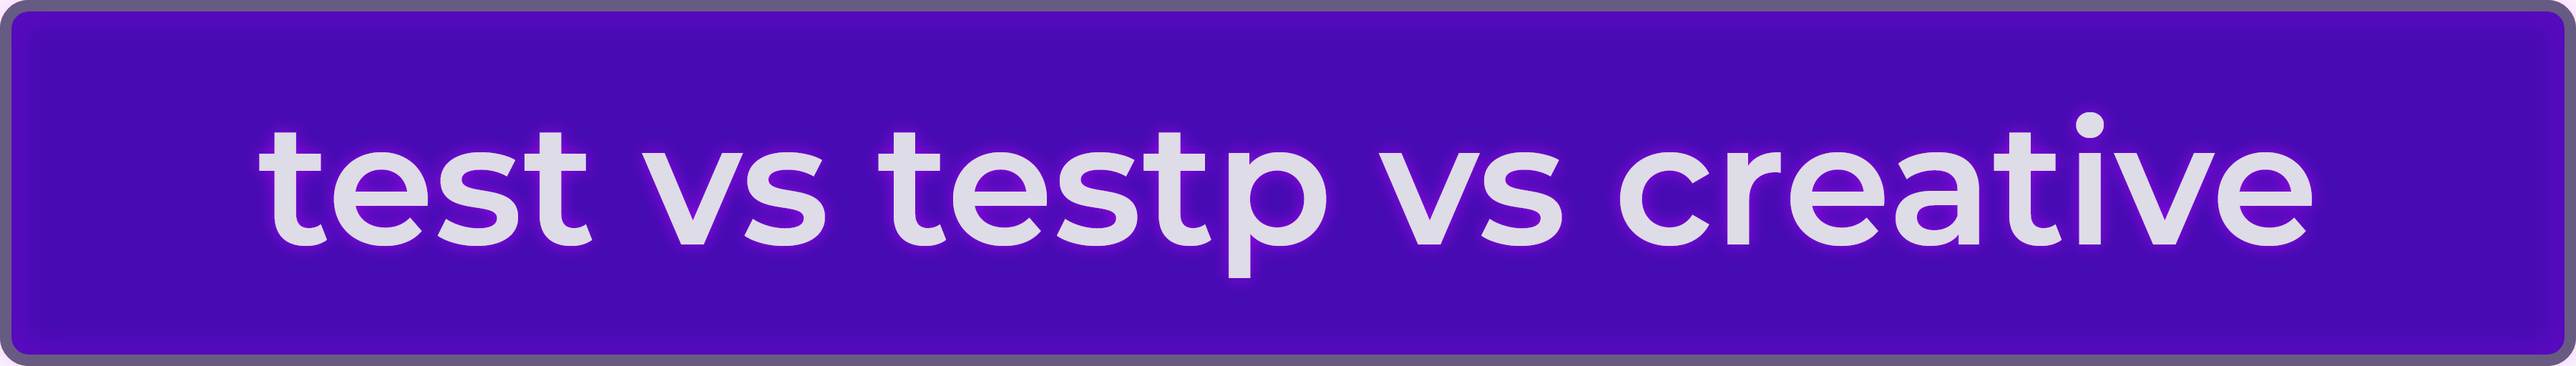
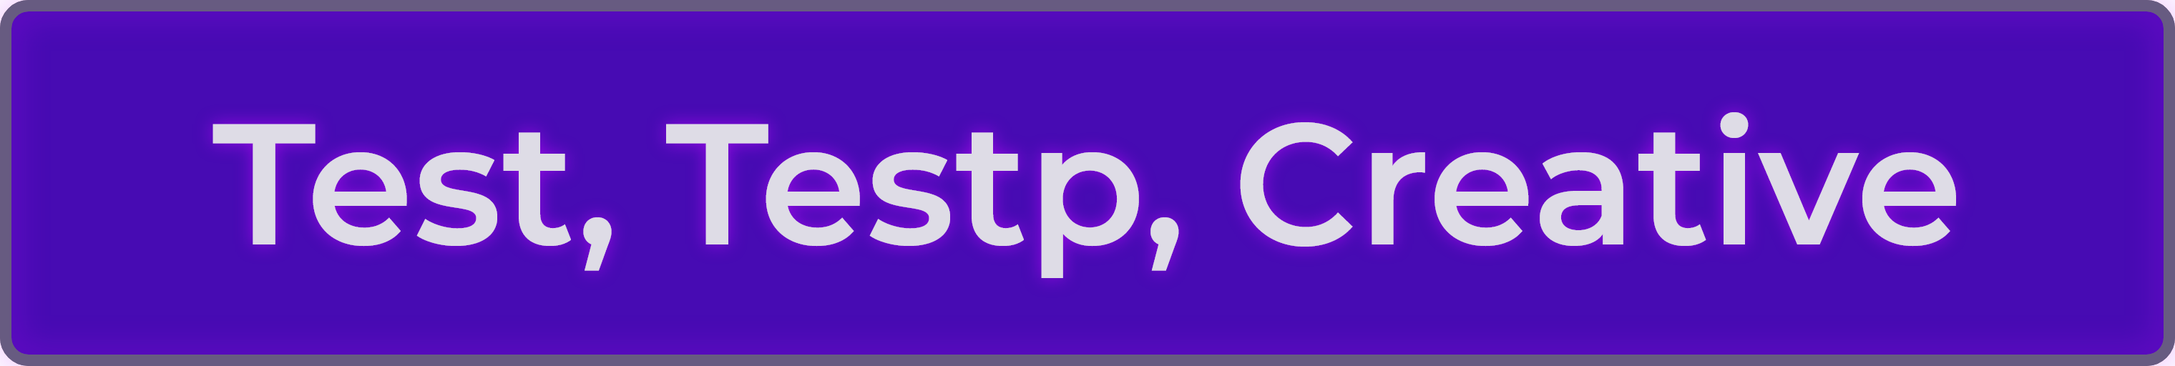
Added and changed name of some repo parts

Changed region(s): [[0.0938, 0.3125, 0.875, 0.75]]

diff --git a/Pages/Comparison_Pages/Version_Comparison/V1_V2_V3_V4.md b/Pages/Comparison_Pages/Version_Comparison/V1_V2_V3_V4.md
@@ -8,7 +8,7 @@
 [<img src="https://github.com/willwulfken/MidJourney-Styles-and-Keywords-Reference/blob/main/Images/Repo_Parts/Buttons/Version_Buttons/Midjourney_Beta_Features/button_version_MJV4_alpha_inactive.png?raw=true" alt="Midjourney V4 Alpha" height="64" />](https://github.com/willwulfken/MidJourney-Styles-and-Keywords-Reference/blob/main/Pages/Comparison_Pages/Version_Comparison/V4_Alpha/V4_Alpha.md)
 <br>
 [<img src="https://github.com/willwulfken/MidJourney-Styles-and-Keywords-Reference/blob/main/Images/Repo_Parts/Buttons/Comparison_Page_Buttons/Groups/button_v4_test_testp_inactive.png?raw=true" alt="V4 vs --test vs --testp" height="64" />](https://github.com/willwulfken/MidJourney-Styles-and-Keywords-Reference/blob/main/Pages/Comparison_Pages/Version_Comparison/V4_test_testp.md)
-[<img src="https://github.com/willwulfken/MidJourney-Styles-and-Keywords-Reference/blob/main/Images/Repo_Parts/Buttons/Comparison_Page_Buttons/Groups/button_test_testp_creative_inactive.png?raw=true" alt="--test vs --testp vs --creative" height="64" />](https://github.com/willwulfken/MidJourney-Styles-and-Keywords-Reference/blob/main/Pages/Comparison_Pages/Version_Comparison/test_testp_creative.md)
+[<img src="https://github.com/willwulfken/MidJourney-Styles-and-Keywords-Reference/blob/main/Images/Repo_Parts/Buttons/Comparison_Page_Buttons/Groups/button_test_vs_testp_vs_creative_inactive.png?raw=true" alt="--test vs --testp vs --creative" height="64" />](https://github.com/willwulfken/MidJourney-Styles-and-Keywords-Reference/blob/main/Pages/Comparison_Pages/Version_Comparison/test_testp_creative.md)
 [<img src="https://github.com/willwulfken/MidJourney-Styles-and-Keywords-Reference/blob/main/Images/Repo_Parts/Buttons/Comparison_Page_Buttons/Groups/button_hd_inactive.png?raw=true" alt="hd" height="64" />](https://github.com/willwulfken/MidJourney-Styles-and-Keywords-Reference/blob/main/Pages/Comparison_Pages/Version_Comparison/HD/hd.md)
 
 </div>

diff --git a/Pages/Comparison_Pages/Version_Comparison/HD/hd.md b/Pages/Comparison_Pages/Version_Comparison/HD/hd.md
@@ -8,7 +8,7 @@
 [<img src="https://github.com/willwulfken/MidJourney-Styles-and-Keywords-Reference/blob/main/Images/Repo_Parts/Buttons/Version_Buttons/Midjourney_Beta_Features/button_version_MJV4_alpha_inactive.png?raw=true" alt="Midjourney V4 Alpha" height="64" />](https://github.com/willwulfken/MidJourney-Styles-and-Keywords-Reference/blob/main/Pages/Comparison_Pages/Version_Comparison/V4_Alpha/V4_Alpha.md)
 <br>
 [<img src="https://github.com/willwulfken/MidJourney-Styles-and-Keywords-Reference/blob/main/Images/Repo_Parts/Buttons/Comparison_Page_Buttons/Groups/button_v4_test_testp_inactive.png?raw=true" alt="V4 vs --test vs --testp" height="64" />](https://github.com/willwulfken/MidJourney-Styles-and-Keywords-Reference/blob/main/Pages/Comparison_Pages/Version_Comparison/V4_test_testp.md)
-[<img src="https://github.com/willwulfken/MidJourney-Styles-and-Keywords-Reference/blob/main/Images/Repo_Parts/Buttons/Comparison_Page_Buttons/Groups/button_test_testp_creative_inactive.png?raw=true" alt="--test vs --testp vs --creative" height="64" />](https://github.com/willwulfken/MidJourney-Styles-and-Keywords-Reference/blob/main/Pages/Comparison_Pages/Version_Comparison/test_testp_creative.md)
+[<img src="https://github.com/willwulfken/MidJourney-Styles-and-Keywords-Reference/blob/main/Images/Repo_Parts/Buttons/Comparison_Page_Buttons/Groups/button_test_vs_testp_vs_creative_inactive.png?raw=true" alt="--test vs --testp vs --creative" height="64" />](https://github.com/willwulfken/MidJourney-Styles-and-Keywords-Reference/blob/main/Pages/Comparison_Pages/Version_Comparison/test_testp_creative.md)
 [<img src="https://github.com/willwulfken/MidJourney-Styles-and-Keywords-Reference/blob/main/Images/Repo_Parts/Buttons/Comparison_Page_Buttons/Groups/button_hd_active.png?raw=true" alt="hd" height="64" />]()
 
 </div>

diff --git a/Pages/Comparison_Pages/Version_Comparison/HD/V2_hd.md b/Pages/Comparison_Pages/Version_Comparison/HD/V2_hd.md
@@ -8,7 +8,7 @@
 [<img src="https://github.com/willwulfken/MidJourney-Styles-and-Keywords-Reference/blob/main/Images/Repo_Parts/Buttons/Version_Buttons/Midjourney_Beta_Features/button_version_MJV4_alpha_inactive.png?raw=true" alt="Midjourney V4 Alpha" height="64" />](https://github.com/willwulfken/MidJourney-Styles-and-Keywords-Reference/blob/main/Pages/Comparison_Pages/Version_Comparison/V4_Alpha/V4_Alpha.md)
 <br>
 [<img src="https://github.com/willwulfken/MidJourney-Styles-and-Keywords-Reference/blob/main/Images/Repo_Parts/Buttons/Comparison_Page_Buttons/Groups/button_v4_test_testp_inactive.png?raw=true" alt="V4 vs --test vs --testp" height="64" />](https://github.com/willwulfken/MidJourney-Styles-and-Keywords-Reference/blob/main/Pages/Comparison_Pages/Version_Comparison/V4_test_testp.md)
-[<img src="https://github.com/willwulfken/MidJourney-Styles-and-Keywords-Reference/blob/main/Images/Repo_Parts/Buttons/Comparison_Page_Buttons/Groups/button_test_testp_creative_inactive.png?raw=true" alt="--test vs --testp vs --creative" height="64" />](https://github.com/willwulfken/MidJourney-Styles-and-Keywords-Reference/blob/main/Pages/Comparison_Pages/Version_Comparison/test_testp_creative.md)
+[<img src="https://github.com/willwulfken/MidJourney-Styles-and-Keywords-Reference/blob/main/Images/Repo_Parts/Buttons/Comparison_Page_Buttons/Groups/button_test_vs_testp_vs_creative_inactive.png?raw=true" alt="--test vs --testp vs --creative" height="64" />](https://github.com/willwulfken/MidJourney-Styles-and-Keywords-Reference/blob/main/Pages/Comparison_Pages/Version_Comparison/test_testp_creative.md)
 [<img src="https://github.com/willwulfken/MidJourney-Styles-and-Keywords-Reference/blob/main/Images/Repo_Parts/Buttons/Comparison_Page_Buttons/Groups/button_hd_active.png?raw=true" alt="hd" height="64" />]()
 
 <br>

diff --git a/Pages/Comparison_Pages/Version_Comparison/HD/V3_hd.md b/Pages/Comparison_Pages/Version_Comparison/HD/V3_hd.md
@@ -8,7 +8,7 @@
 [<img src="https://github.com/willwulfken/MidJourney-Styles-and-Keywords-Reference/blob/main/Images/Repo_Parts/Buttons/Version_Buttons/Midjourney_Beta_Features/button_version_MJV4_alpha_inactive.png?raw=true" alt="Midjourney V4 Alpha" height="64" />](https://github.com/willwulfken/MidJourney-Styles-and-Keywords-Reference/blob/main/Pages/Comparison_Pages/Version_Comparison/V4_Alpha/V4_Alpha.md)
 <br>
 [<img src="https://github.com/willwulfken/MidJourney-Styles-and-Keywords-Reference/blob/main/Images/Repo_Parts/Buttons/Comparison_Page_Buttons/Groups/button_v4_test_testp_inactive.png?raw=true" alt="V4 vs --test vs --testp" height="64" />](https://github.com/willwulfken/MidJourney-Styles-and-Keywords-Reference/blob/main/Pages/Comparison_Pages/Version_Comparison/V4_test_testp.md)
-[<img src="https://github.com/willwulfken/MidJourney-Styles-and-Keywords-Reference/blob/main/Images/Repo_Parts/Buttons/Comparison_Page_Buttons/Groups/button_test_testp_creative_inactive.png?raw=true" alt="--test vs --testp vs --creative" height="64" />](https://github.com/willwulfken/MidJourney-Styles-and-Keywords-Reference/blob/main/Pages/Comparison_Pages/Version_Comparison/test_testp_creative.md)
+[<img src="https://github.com/willwulfken/MidJourney-Styles-and-Keywords-Reference/blob/main/Images/Repo_Parts/Buttons/Comparison_Page_Buttons/Groups/button_test_vs_testp_vs_creative_inactive.png?raw=true" alt="--test vs --testp vs --creative" height="64" />](https://github.com/willwulfken/MidJourney-Styles-and-Keywords-Reference/blob/main/Pages/Comparison_Pages/Version_Comparison/test_testp_creative.md)
 [<img src="https://github.com/willwulfken/MidJourney-Styles-and-Keywords-Reference/blob/main/Images/Repo_Parts/Buttons/Comparison_Page_Buttons/Groups/button_hd_active.png?raw=true" alt="hd" height="64" />]()
 
 <br>

diff --git a/Pages/Comparison_Pages/Version_Comparison/V4_test_testp.md b/Pages/Comparison_Pages/Version_Comparison/V4_test_testp.md
@@ -8,7 +8,7 @@
 [<img src="https://github.com/willwulfken/MidJourney-Styles-and-Keywords-Reference/blob/main/Images/Repo_Parts/Buttons/Version_Buttons/Midjourney_Beta_Features/button_version_MJV4_alpha_inactive.png?raw=true" alt="Midjourney V4 Alpha" height="64" />](https://github.com/willwulfken/MidJourney-Styles-and-Keywords-Reference/blob/main/Pages/Comparison_Pages/Version_Comparison/V4_Alpha/V4_Alpha.md)
 <br>
 [<img src="https://github.com/willwulfken/MidJourney-Styles-and-Keywords-Reference/blob/main/Images/Repo_Parts/Buttons/Comparison_Page_Buttons/Groups/button_v4_test_testp_active.png?raw=true" alt="V4 vs --test vs --testp" height="64" />]()
-[<img src="https://github.com/willwulfken/MidJourney-Styles-and-Keywords-Reference/blob/main/Images/Repo_Parts/Buttons/Comparison_Page_Buttons/Groups/button_test_testp_creative_inactive.png?raw=true" alt="--test vs --testp vs --creative" height="64" />](https://github.com/willwulfken/MidJourney-Styles-and-Keywords-Reference/blob/main/Pages/Comparison_Pages/Version_Comparison/test_testp_creative.md)
+[<img src="https://github.com/willwulfken/MidJourney-Styles-and-Keywords-Reference/blob/main/Images/Repo_Parts/Buttons/Comparison_Page_Buttons/Groups/button_test_vs_testp_vs_creative_inactive.png?raw=true" alt="--test vs --testp vs --creative" height="64" />](https://github.com/willwulfken/MidJourney-Styles-and-Keywords-Reference/blob/main/Pages/Comparison_Pages/Version_Comparison/test_testp_creative.md)
 [<img src="https://github.com/willwulfken/MidJourney-Styles-and-Keywords-Reference/blob/main/Images/Repo_Parts/Buttons/Comparison_Page_Buttons/Groups/button_hd_inactive.png?raw=true" alt="hd" height="64" />](https://github.com/willwulfken/MidJourney-Styles-and-Keywords-Reference/blob/main/Pages/Comparison_Pages/Version_Comparison/HD/hd.md)
 
 </div>

diff --git a/Pages/Comparison_Pages/Version_Comparison/Old_Pages/V4_Alpha_All.md b/Pages/Comparison_Pages/Version_Comparison/Old_Pages/V4_Alpha_All.md
@@ -8,7 +8,7 @@
 [<img src="https://github.com/willwulfken/MidJourney-Styles-and-Keywords-Reference/blob/main/Images/Repo_Parts/Buttons/Version_Buttons/Midjourney_Beta_Features/button_version_MJV4_alpha_active.png?raw=true" alt="Midjourney V4 Alpha" height="64" />]()
 <br>
 [<img src="https://github.com/willwulfken/MidJourney-Styles-and-Keywords-Reference/blob/main/Images/Repo_Parts/Buttons/Comparison_Page_Buttons/Groups/button_v4_test_testp_inactive.png?raw=true" alt="V4 vs --test vs --testp" height="64" />](https://github.com/willwulfken/MidJourney-Styles-and-Keywords-Reference/blob/main/Pages/Comparison_Pages/Version_Comparison/V4_test_testp.md)
-[<img src="https://github.com/willwulfken/MidJourney-Styles-and-Keywords-Reference/blob/main/Images/Repo_Parts/Buttons/Comparison_Page_Buttons/Groups/button_test_testp_creative_inactive.png?raw=true" alt="--test vs --testp vs --creative" height="64" />](https://github.com/willwulfken/MidJourney-Styles-and-Keywords-Reference/blob/main/Pages/Comparison_Pages/Version_Comparison/test_testp_creative.md)
+[<img src="https://github.com/willwulfken/MidJourney-Styles-and-Keywords-Reference/blob/main/Images/Repo_Parts/Buttons/Comparison_Page_Buttons/Groups/button_test_vs_testp_vs_creative_inactive.png?raw=true" alt="--test vs --testp vs --creative" height="64" />](https://github.com/willwulfken/MidJourney-Styles-and-Keywords-Reference/blob/main/Pages/Comparison_Pages/Version_Comparison/test_testp_creative.md)
 [<img src="https://github.com/willwulfken/MidJourney-Styles-and-Keywords-Reference/blob/main/Images/Repo_Parts/Buttons/Comparison_Page_Buttons/Groups/button_hd_inactive.png?raw=true" alt="hd" height="64" />](https://github.com/willwulfken/MidJourney-Styles-and-Keywords-Reference/blob/main/Pages/Comparison_Pages/Version_Comparison/HD/hd.md)
 
 <br>

diff --git a/Pages/Comparison_Pages/Version_Comparison/V4_Alpha/V4_Alpha.md b/Pages/Comparison_Pages/Version_Comparison/V4_Alpha/V4_Alpha.md
@@ -8,7 +8,7 @@
 [<img src="https://github.com/willwulfken/MidJourney-Styles-and-Keywords-Reference/blob/main/Images/Repo_Parts/Buttons/Version_Buttons/Midjourney_Beta_Features/button_version_MJV4_alpha_active.png?raw=true" alt="Midjourney V4 Alpha" height="64" />]()
 <br>
 [<img src="https://github.com/willwulfken/MidJourney-Styles-and-Keywords-Reference/blob/main/Images/Repo_Parts/Buttons/Comparison_Page_Buttons/Groups/button_v4_test_testp_inactive.png?raw=true" alt="V4 vs --test vs --testp" height="64" />](https://github.com/willwulfken/MidJourney-Styles-and-Keywords-Reference/blob/main/Pages/Comparison_Pages/Version_Comparison/V4_test_testp.md)
-[<img src="https://github.com/willwulfken/MidJourney-Styles-and-Keywords-Reference/blob/main/Images/Repo_Parts/Buttons/Comparison_Page_Buttons/Groups/button_test_testp_creative_inactive.png?raw=true" alt="--test vs --testp vs --creative" height="64" />](https://github.com/willwulfken/MidJourney-Styles-and-Keywords-Reference/blob/main/Pages/Comparison_Pages/Version_Comparison/test_testp_creative.md)
+[<img src="https://github.com/willwulfken/MidJourney-Styles-and-Keywords-Reference/blob/main/Images/Repo_Parts/Buttons/Comparison_Page_Buttons/Groups/button_test_vs_testp_vs_creative_inactive.png?raw=true" alt="--test vs --testp vs --creative" height="64" />](https://github.com/willwulfken/MidJourney-Styles-and-Keywords-Reference/blob/main/Pages/Comparison_Pages/Version_Comparison/test_testp_creative.md)
 [<img src="https://github.com/willwulfken/MidJourney-Styles-and-Keywords-Reference/blob/main/Images/Repo_Parts/Buttons/Comparison_Page_Buttons/Groups/button_hd_inactive.png?raw=true" alt="hd" height="64" />](https://github.com/willwulfken/MidJourney-Styles-and-Keywords-Reference/blob/main/Pages/Comparison_Pages/Version_Comparison/HD/hd.md)
 
 <br>

diff --git a/Pages/Comparison_Pages/Version_Comparison/V4_Alpha/V4_Style.md b/Pages/Comparison_Pages/Version_Comparison/V4_Alpha/V4_Style.md
@@ -8,7 +8,7 @@
 [<img src="https://github.com/willwulfken/MidJourney-Styles-and-Keywords-Reference/blob/main/Images/Repo_Parts/Buttons/Version_Buttons/Midjourney_Beta_Features/button_version_MJV4_alpha_active.png?raw=true" alt="Midjourney V4 Alpha" height="64" />]()
 <br>
 [<img src="https://github.com/willwulfken/MidJourney-Styles-and-Keywords-Reference/blob/main/Images/Repo_Parts/Buttons/Comparison_Page_Buttons/Groups/button_v4_test_testp_inactive.png?raw=true" alt="V4 vs --test vs --testp" height="64" />](https://github.com/willwulfken/MidJourney-Styles-and-Keywords-Reference/blob/main/Pages/Comparison_Pages/Version_Comparison/V4_test_testp.md)
-[<img src="https://github.com/willwulfken/MidJourney-Styles-and-Keywords-Reference/blob/main/Images/Repo_Parts/Buttons/Comparison_Page_Buttons/Groups/button_test_testp_creative_inactive.png?raw=true" alt="--test vs --testp vs --creative" height="64" />](https://github.com/willwulfken/MidJourney-Styles-and-Keywords-Reference/blob/main/Pages/Comparison_Pages/Version_Comparison/test_testp_creative.md)
+[<img src="https://github.com/willwulfken/MidJourney-Styles-and-Keywords-Reference/blob/main/Images/Repo_Parts/Buttons/Comparison_Page_Buttons/Groups/button_test_vs_testp_vs_creative_inactive.png?raw=true" alt="--test vs --testp vs --creative" height="64" />](https://github.com/willwulfken/MidJourney-Styles-and-Keywords-Reference/blob/main/Pages/Comparison_Pages/Version_Comparison/test_testp_creative.md)
 [<img src="https://github.com/willwulfken/MidJourney-Styles-and-Keywords-Reference/blob/main/Images/Repo_Parts/Buttons/Comparison_Page_Buttons/Groups/button_hd_inactive.png?raw=true" alt="hd" height="64" />](https://github.com/willwulfken/MidJourney-Styles-and-Keywords-Reference/blob/main/Pages/Comparison_Pages/Version_Comparison/HD/hd.md)
 
 <br>

diff --git a/Pages/Comparison_Pages/Version_Comparison/test_testp_creative.md b/Pages/Comparison_Pages/Version_Comparison/test_testp_creative.md
@@ -8,7 +8,7 @@
 [<img src="https://github.com/willwulfken/MidJourney-Styles-and-Keywords-Reference/blob/main/Images/Repo_Parts/Buttons/Version_Buttons/Midjourney_Beta_Features/button_version_MJV4_alpha_inactive.png?raw=true" alt="Midjourney V4 Alpha" height="64" />](https://github.com/willwulfken/MidJourney-Styles-and-Keywords-Reference/blob/main/Pages/Comparison_Pages/Version_Comparison/V4_Alpha/V4_Alpha.md)
 <br>
 [<img src="https://github.com/willwulfken/MidJourney-Styles-and-Keywords-Reference/blob/main/Images/Repo_Parts/Buttons/Comparison_Page_Buttons/Groups/button_v4_test_testp_inactive.png?raw=true" alt="V4 vs --test vs --testp" height="64" />](https://github.com/willwulfken/MidJourney-Styles-and-Keywords-Reference/blob/main/Pages/Comparison_Pages/Version_Comparison/V4_test_testp.md)
-[<img src="https://github.com/willwulfken/MidJourney-Styles-and-Keywords-Reference/blob/main/Images/Repo_Parts/Buttons/Comparison_Page_Buttons/Groups/button_test_testp_creative_active.png?raw=true" alt="--test vs --testp vs --creative" height="64" />]()
+[<img src="https://github.com/willwulfken/MidJourney-Styles-and-Keywords-Reference/blob/main/Images/Repo_Parts/Buttons/Comparison_Page_Buttons/Groups/button_test_vs_testp_vs_creative_active.png?raw=true" alt="--test vs --testp vs --creative" height="64" />]()
 [<img src="https://github.com/willwulfken/MidJourney-Styles-and-Keywords-Reference/blob/main/Images/Repo_Parts/Buttons/Comparison_Page_Buttons/Groups/button_hd_inactive.png?raw=true" alt="hd" height="64" />](https://github.com/willwulfken/MidJourney-Styles-and-Keywords-Reference/blob/main/Pages/Comparison_Pages/Version_Comparison/HD/hd.md)
 
 </div>
